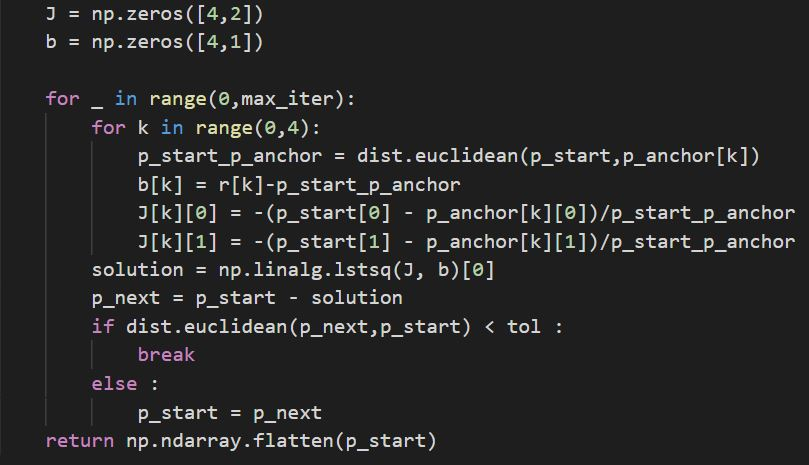
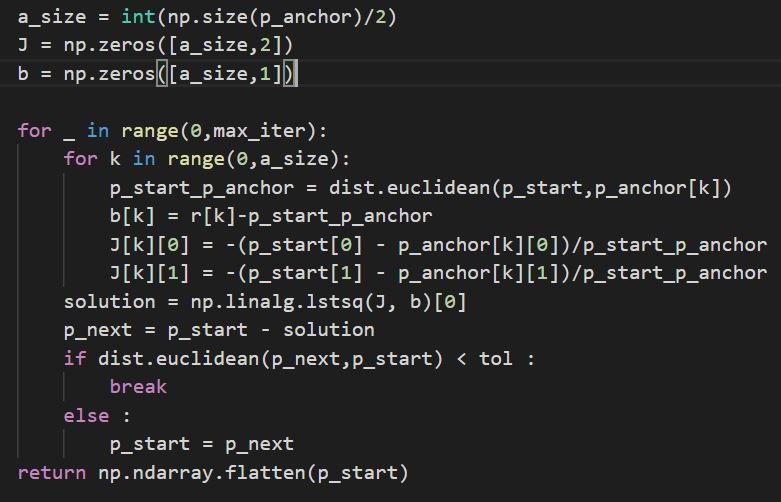
Modifiy the function to use bool

diff --git a/skeleton_HW4.py b/skeleton_HW4.py
@@ -18,9 +18,9 @@ from scipy.stats import multivariate_normal
 def main():
     
     # choose the scenario
-    #scenario = 1    # all anchors are Gaussian
-    #scenario = 2    # 1 anchor is exponential, 3 are Gaussian
-    scenario = 3    # all anchors are exponential
+    # scenario = 1    # all anchors are Gaussian
+    scenario = 2    # 1 anchor is exponential, 3 are Gaussian
+    # scenario = 3    # all anchors are exponential
     
     # specify position of anchors
     p_anchor = np.array([[5,5],[-5,5],[-5,-5],[5,-5]])
@@ -42,10 +42,10 @@ def main():
     nr_samples = np.size(data,0)
     
     #1) ML estimation of model parameters 
-    params = parameter_estimation(reference_measurement,nr_anchors,p_anchor,p_ref)
+    # params = parameter_estimation(reference_measurement,nr_anchors,p_anchor,p_ref)
     
     #2) Position estimation using least squares
-    position_estimation_least_squares(data,nr_anchors,p_anchor, p_true, True)
+    position_estimation_least_squares(data,nr_anchors,p_anchor, p_true, False)
 
     if(scenario == 3):
         # TODO: don't forget to plot joint-likelihood function for the first measurement
@@ -126,15 +126,22 @@ def position_estimation_least_squares(data,nr_anchors,p_anchor, p_true, use_expo
     
     # estimate position 
     p_expected = np.zeros([nr_samples,2])
+    
 
     #iterate through sample
     for i in range(0, nr_samples):
         #uniform distribution within 4 achors
-        del_anchor = np.random.randint(0,3)
-        sel_anchors = np.delete(p_anchor,del_anchor,0)
-        ran_p = np.sort(np.random.rand(2, 1), axis=0)
-        p_start = np.transpose(np.column_stack([ran_p[0], ran_p[1]-ran_p[0], 1.0-ran_p[1]]) @ sel_anchors)
-        p_expected[i,:] = least_squares_GN(p_anchor,p_start, data[i], max_iter, tol)
+        if use_exponential == True:
+            del_anchor = np.random.randint(0,3)
+            sel_anchors = np.delete(p_anchor,del_anchor,0)
+            ran_p = np.sort(np.random.rand(2, 1), axis=0)
+            p_start = np.transpose(np.column_stack([ran_p[0], ran_p[1]-ran_p[0], 1.0-ran_p[1]]) @ sel_anchors)
+            p_expected[i,:] = least_squares_GN(p_anchor,p_start, data[i], max_iter, tol)
+        else:
+            sel_anchors = p_anchor[1:4,:]
+            ran_p = np.sort(np.random.rand(2, 1), axis=0)
+            p_start = np.transpose(np.column_stack([ran_p[0], ran_p[1]-ran_p[0], 1.0-ran_p[1]]) @ sel_anchors)
+            p_expected[i,:] = least_squares_GN(sel_anchors,p_start, data[i,1:4], max_iter, tol)
 
 	# calculate error measures and create plots----------------
     p_error = (-1)*p_expected + p_true
@@ -198,27 +205,13 @@ def least_squares_GN(p_anchor,p_start, r, max_iter, tol):
         r... distance_estimate, nr_anchors x 1
         max_iter... maximum number of iterations, scalar
         tol... tolerance value to terminate, scalar"""
-    J = np.zeros([4,2])
-    b = np.zeros([4,1])
-
-    # for _ in range(0,max_iter):
-    #     for k in range(0,3):
-    #         p_start_p_anchor = dist.euclidean(p_start,p_anchor[k+1])
-    #         b[k] = r[k+1]-p_start_p_anchor
-    #         J[k][0] = -(p_start[0] - p_anchor[k+1][0])/p_start_p_anchor
-    #         J[k][1] = -(p_start[1] - p_anchor[k+1][1])/p_start_p_anchor
-    #     solution = np.linalg.lstsq(J, b)[0]
-    #     p_next = p_start - solution
-    #     if dist.euclidean(p_next,p_start) < tol :
-    #         break
-    #     else :
-    #         p_start = p_next
-    # return np.ndarray.flatten(p_start)
-    # J = np.zeros([4,2])
-    # b = np.zeros([4,1])
-
+    
+    a_size = int(np.size(p_anchor)/2)
+    J = np.zeros([a_size,2])
+    b = np.zeros([a_size,1])
+    
     for _ in range(0,max_iter):
-        for k in range(0,4):
+        for k in range(0,a_size):
             p_start_p_anchor = dist.euclidean(p_start,p_anchor[k])
             b[k] = r[k]-p_start_p_anchor
             J[k][0] = -(p_start[0] - p_anchor[k][0])/p_start_p_anchor

diff --git a/report/assignment-coverpage-CI.tex b/report/assignment-coverpage-CI.tex
@@ -133,7 +133,7 @@ Then, we iterate with new start point(selected within the anchors square with un
 The following figure is the main code of Gauss\_Newton.\\
 \begin{figure}[h]
 	\begin{center}
-		\includegraphics[width=0.5\textwidth]{least_square.jpg}
+		\includegraphics[width=0.4\textwidth]{least_square.jpg}
 		\caption{Least\_square with Gauss\_Newton}
 	\end{center}
 \end{figure}
